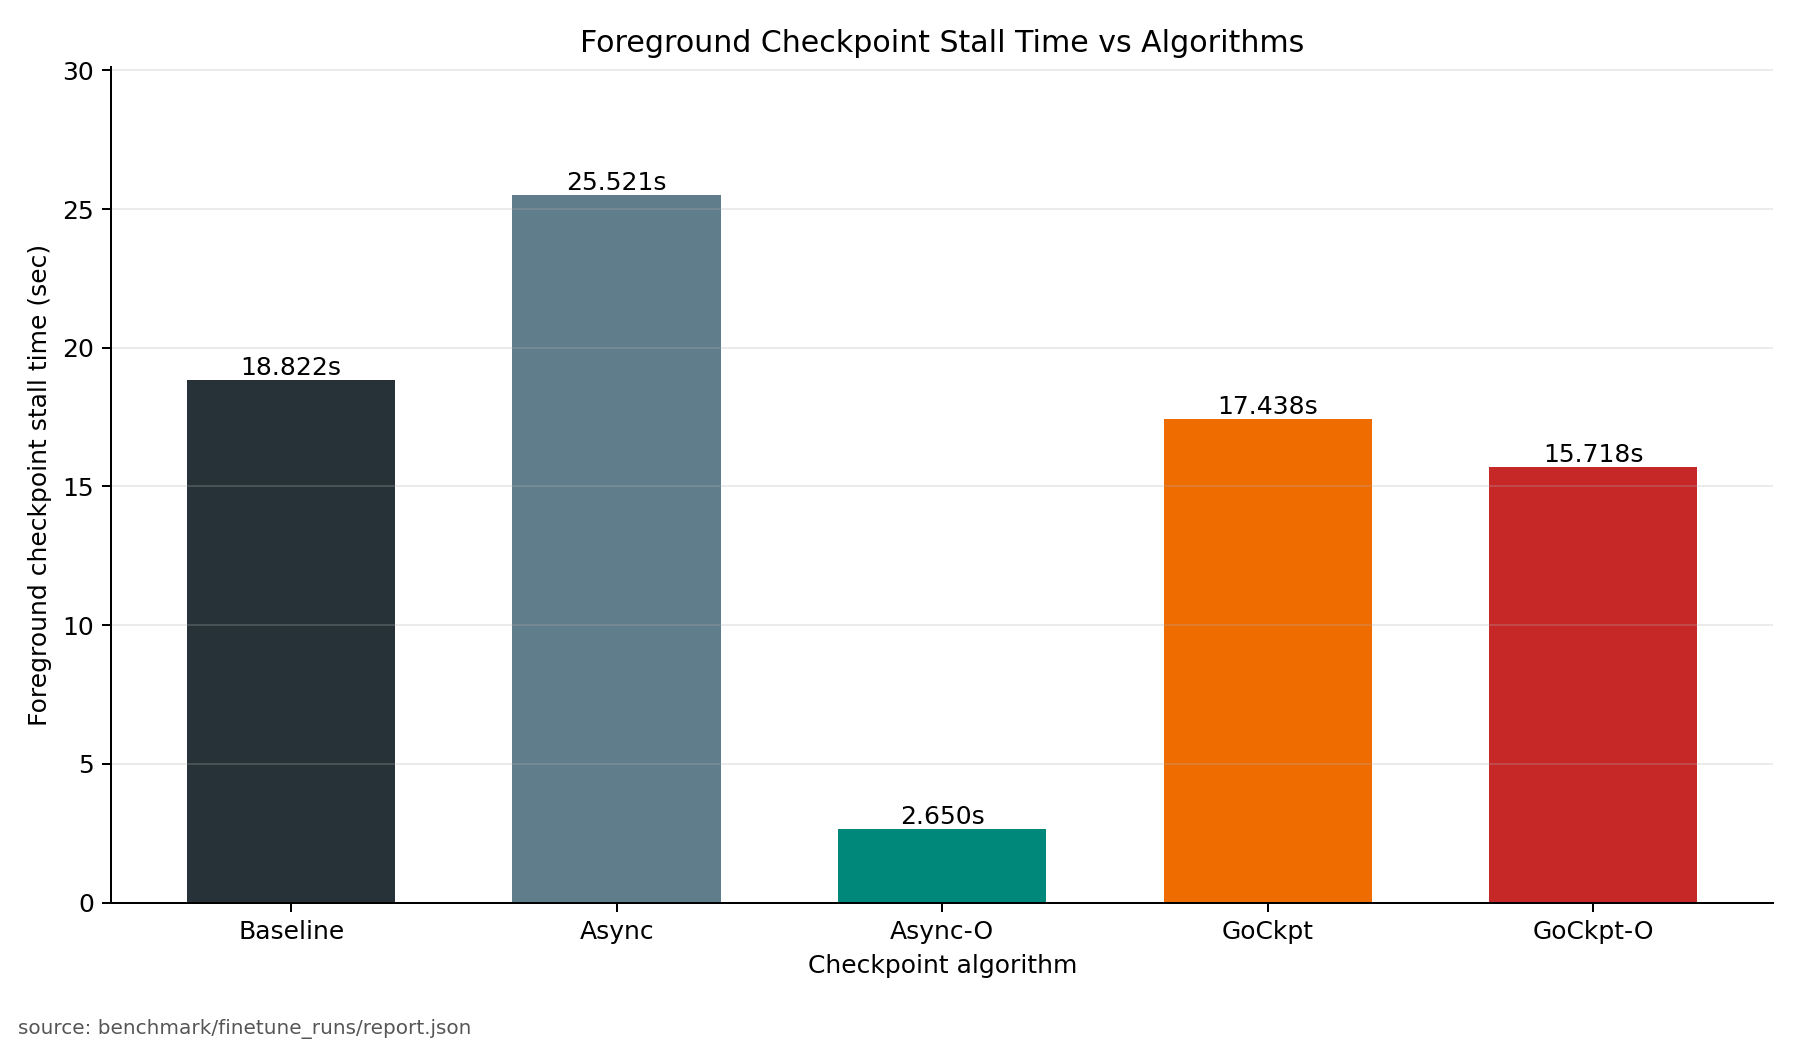
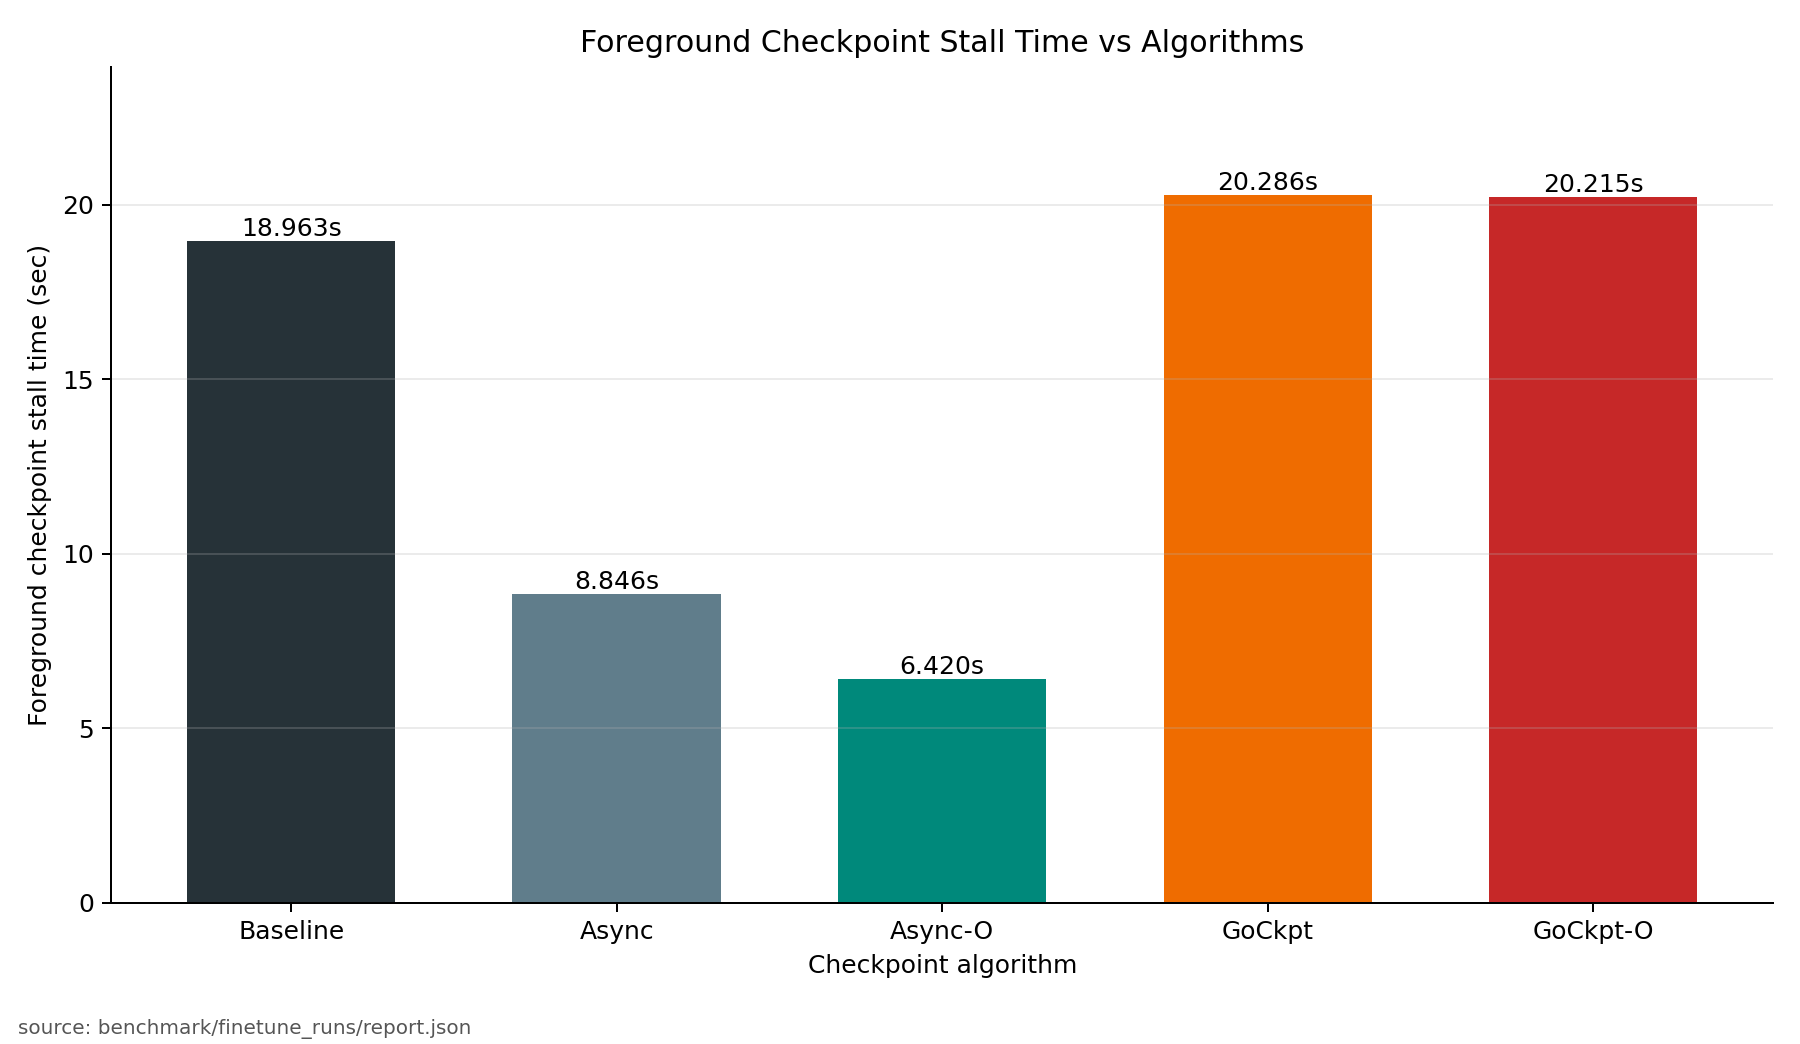
fixed: fixed async

diff --git a/src/async_hook.py b/src/async_hook.py
@@ -29,8 +29,9 @@ class AsyncCheckpointHook(BaselineCheckpointHook):
        transferred from GPU-backed tensors into CPU-owned tensors.
     2. Once the CPU checkpoint payload is complete, training resumes.
     3. torch.save runs on a background thread against that CPU payload.
-    4. Before the next step's forward phase, the hook waits for the previous
-       background persistence to finish so checkpoint I/O cannot lag forever.
+    4. Before starting another checkpoint, the hook waits for previous
+       background persistence to finish. This prevents concurrent checkpoint
+       writes without blocking unrelated forward/backward work.
     """
 
     def __init__(
@@ -105,9 +106,7 @@ class AsyncCheckpointHook(BaselineCheckpointHook):
         )
 
     def forward_begin(self, step: int) -> None:
-        pending_started_step = self._pending_started_step
-        if pending_started_step is not None and step > pending_started_step:
-            self.wait_for_pending_persistence()
+        return
 
     def forward_end(self, step: int) -> None:
         return

diff --git a/README.md b/README.md
@@ -1,0 +1,59 @@
+# Checkpoint
+
+## Verify
+
+```bash
+python finetune.py \
+  --seq-len 512 \
+  --max-steps 200 \
+  --save-steps 20 \
+  --gradient-checkpointing
+```
+
+## Checkpoint Benchmark
+
+```bash
+conda run -n checkpoint python benchmark/checkpoint_benchmark.py \
+  --steps 10 \
+  --save-step 3 \
+  --overlap-steps 4 \
+  --output-dir benchmark/checkpoint_runs
+```
+
+The benchmark runs `baseline`, `async`, `async_o`, `gockpt`, and `gockpt_o`
+on a deterministic tiny model. It verifies that each checkpoint loads, resumes,
+and reaches the same final model and optimizer state as uninterrupted training.
+It also writes phase timing summaries and expectation checks to
+`benchmark/checkpoint_runs/report.json`.
+
+## Real Finetune Benchmark
+
+```bash
+conda run -n checkpoint python benchmark/finetune_benchmark.py \
+  --hook-types baseline async async_o gockpt gockpt_o \
+  --seq-len 512 \
+  --max-steps 200 \
+  --save-steps 20 \
+  --overlap-steps 7 \
+  --gradient-checkpointing \
+  --output-dir benchmark/finetune_runs
+```
+
+## Benchmark Image
+
+```bash
+conda run -n checkpoint python benchmark/visualize_checkpoint_save_time.py \
+    --report benchmark/finetune_runs/report.json \
+    --output benchmark/images/foreground_checkpoint_time.png \
+    --title "Foreground Checkpoint Stall Time vs Algorithms" \
+```
+
+## Sanity Check
+
+```bash
+python finetune.py \
+  --seq-len 512 \
+  --max-steps 1000 \
+  --save-steps 20 \
+  --gradient-checkpointing
+```